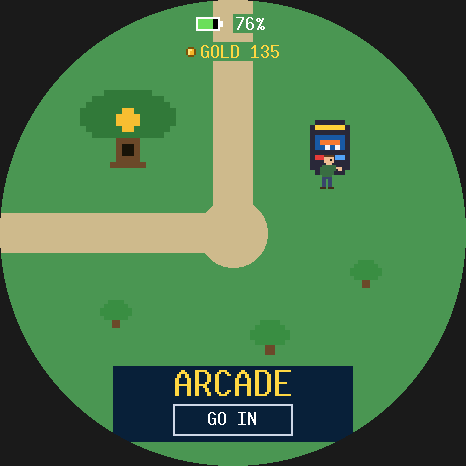
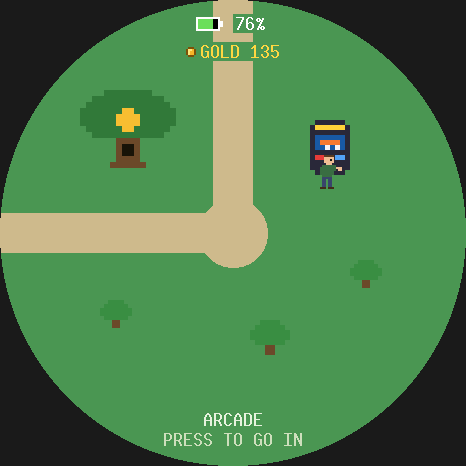
town: no GO IN sign. At a door the bottom plate names the place and says PRESS TO GO IN (PRESS TO OPEN at the signpost); walking in from a landmark tap keeps the clearing's plate, so nothing flashes for a frame; a tap where GO IN was walks down the south path. Town screenshots and the overview slide

Changed region(s): [[0.2403, 0.7811, 0.7811, 0.9614]]

diff --git a/crates/pals_game/src/town/draw.rs b/crates/pals_game/src/town/draw.rs
@@ -1,5 +1,5 @@
-//! Draws the town: the clearing you're in, you, the purse and door sign, and
-//! the settings screens.
+//! Draws the town: the clearing you're in, you, the purse and the plate that
+//! names where you are, and the settings screens.
 
 use alloc::{format, vec::Vec};
 
@@ -8,7 +8,7 @@ use bevy::prelude::*;
 use orbit_core::{Frame, Power, SoundQueue, Tilt};
 use orbit_gfx::{Point, Rgb565, Shape, SpriteRef};
 use orbit_ui::{
-    DANGER, DEEP, GOLD, HINT, TEXT, battery_level, battery_level_on, button, dial_choice, disc,
+    DANGER, DEEP, GOLD, HINT, TEXT, battery_level, battery_level_on, dial_choice, disc,
     framed_button, gold_label_on, label, labelled_button, plated_lines, power_overlay, rect, rgb,
 };
 use pals::Pals;
@@ -18,6 +18,7 @@ use super::{
     map::{LAKE, Screen, Way, props},
     ui,
 };
+use crate::Place;
 
 pub const GRASS: Rgb565 = rgb(78, 150, 84);
 const PATH: Rgb565 = rgb(206, 186, 136);
@@ -25,9 +26,6 @@ const WATER: Rgb565 = rgb(48, 110, 180);
 const SHORE: Rgb565 = rgb(196, 180, 120);
 const PATH_WIDTH: u32 = 40;
 const AVATAR_SCALE: u32 = 2;
-/// A door's sign is this much wider than its name, if that's wider than
-/// `ui::SIGN`.
-const SIGN_PAD: u32 = 28;
 
 pub(crate) fn draw_frame(
     town: Res<Town>,
@@ -115,7 +113,9 @@ fn avatar(shapes: &mut Vec<Shape>, town: &Town) {
     });
 }
 
-/// The purse on top, and at a door, its name and how to go in.
+/// The purse on top, and a plate naming the clearing, or at a door the
+/// place and how to go in. Walking in from a landmark keeps the clearing's
+/// plate, so it doesn't flash on the way in.
 fn hud(shapes: &mut Vec<Shape>, town: &Town, pals: &Pals) {
     gold_label_on(
         shapes,
@@ -124,25 +124,16 @@ fn hud(shapes: &mut Vec<Shape>, town: &Town, pals: &Pals) {
         1,
         GRASS,
     );
-    match town.near() {
-        Some(place) => {
-            let name = label(384, place.name(), 2, GOLD);
-            let wide = orbit_gfx::ink(&name).map_or(0, |ink| ink.size.width + SIGN_PAD);
-            let sign = ui::SIGN.area;
-            let width = wide.max(sign.size.width);
-            let left = 233 - width as i32 / 2;
-            shapes.push(rect(left, sign.top_left.y, width, sign.size.height, DEEP));
-            shapes.push(name);
-            button(shapes, &ui::ENTER);
-        }
-        None => {
-            let lines = [
-                label(420, town.screen().name(), 1, rgb(230, 240, 220)),
-                label(440, "TAP WHERE TO GO", 1, rgb(200, 220, 190)),
-            ];
-            plated_lines(shapes, lines, GRASS);
-        }
-    }
+    let (title, hint) = match town.near().filter(|_| town.heading_in.is_none()) {
+        Some(Place::Settings) => (Place::Settings.name(), "PRESS TO OPEN"),
+        Some(place) => (place.name(), "PRESS TO GO IN"),
+        None => (town.screen().name(), "TAP WHERE TO GO"),
+    };
+    let lines = [
+        label(420, title, 1, rgb(230, 240, 220)),
+        label(440, hint, 1, rgb(200, 220, 190)),
+    ];
+    plated_lines(shapes, lines, GRASS);
 }
 
 fn settings(shapes: &mut Vec<Shape>, pals: &Pals, sound: &SoundQueue, pointed: usize) {

diff --git a/crates/pals_game/tests/town.rs b/crates/pals_game/tests/town.rs
@@ -186,6 +186,48 @@ fn every_place_is_one_tap_on_its_landmark_away() {
 }
 
 #[test]
+fn at_a_door_the_plate_names_it_and_there_is_no_go_in_button() {
+    for place in Place::ALL {
+        let mut app = town(None);
+        app.world_mut().resource_mut::<Town>().stand_at(place);
+        update(&mut app);
+        assert!(!shows(&app, "GO IN"), "{place:?}");
+        assert!(shows(&app, place.name()), "{place:?}");
+        let hint = if place == Place::Settings {
+            "PRESS TO OPEN"
+        } else {
+            "PRESS TO GO IN"
+        };
+        assert!(shows(&app, hint), "{place:?}");
+    }
+}
+
+#[test]
+fn where_go_in_was_is_just_the_path_south_now() {
+    let mut app = town(None);
+    assert_eq!(state(&app).near(), Some(Place::Home));
+    tap_and_walk(&mut app, Vec2::new(233.0, 420.0), 60 * 4);
+    assert_eq!(state(&app).destination(), None);
+    assert_eq!(state(&app).screen(), Screen::MainStreet);
+}
+
+#[test]
+fn walking_in_from_a_landmark_keeps_the_usual_plate() {
+    let mut app = town(None);
+    tap_and_walk(&mut app, Vec2::new(330.0, 300.0), 120);
+    tap(&mut app, Vec2::new(233.0, 100.0));
+    for _ in 0..180 {
+        if state(&app).destination().is_some() {
+            break;
+        }
+        assert!(!shows(&app, "PRESS TO GO IN"), "the door plate flashed");
+        update(&mut app);
+    }
+    assert_eq!(state(&app).destination(), Some(Place::Home));
+    assert!(!shows(&app, "PRESS TO GO IN"), "the door plate flashed");
+}
+
+#[test]
 fn standing_near_a_door_is_enough_to_go_in() {
     let mut app = town(None);
     let door = state(&app).at();

diff --git a/crates/pals_game/src/town/mod.rs b/crates/pals_game/src/town/mod.rs
@@ -1,8 +1,8 @@
 //! The town, where the board starts: six clearings you walk around by touch.
 //! Tap where to go, or hold a finger down and follow it; tap the end of a path
 //! to go down it. Tap a place's landmark (its building, sign, or the pond's
-//! water and dock) and you walk to its door and go in. PWR (or GO IN) at a
-//! door goes in too. Going in ends the town app, and the platform builds that
+//! water and dock) and you walk to its door and go in. PWR at a door goes in
+//! too. Going in ends the town app, and the platform builds that
 //! place's app. The signpost by the house opens settings instead:
 //! sound, mock walks and reset, picked by turning like every menu.
 
@@ -278,10 +278,8 @@ fn roam(
                     town.finger_spent = true;
                 }
             }
-            let near = town.near();
-            let on_sign = tap.is_some_and(|at| ui::SIGN.miss(at) == 0.0);
-            let going_in = |place: &Place| pressed || on_sign || town.heading_in == Some(*place);
-            if let Some(place) = near.filter(going_in) {
+            let going_in = |place: &Place| pressed || town.heading_in == Some(*place);
+            if let Some(place) = town.near().filter(going_in) {
                 sound.play(&CLICK);
                 if place == Place::Settings {
                     town.phase = TownPhase::Settings;

diff --git a/crates/pals_game/src/town/ui.rs b/crates/pals_game/src/town/ui.rs
@@ -2,10 +2,6 @@
 
 pub use orbit_ui::Button;
 
-/// At a door, below its name.
-pub const ENTER: Button = Button::new(173, 404, 120, 32, "GO IN");
-/// The sign at a door, GO IN and all: a tap anywhere on it goes in.
-pub const SIGN: Button = Button::new(113, 366, 240, 76, "");
 /// Settings, clockwise from 12 o'clock as on its dial.
 pub const SOUND: Button = Button::new(148, 88, 170, 44, "SOUND");
 pub const MOCK_WALK: Button = Button::new(286, 211, 160, 44, "MOCK WALK");

diff --git a/devlog/beats.md b/devlog/beats.md
@@ -928,3 +928,18 @@ Images are in `img/`. Newest beats go at the bottom.
   unchanged.
 - **The numbers:** 3 new tests; spider's 60 s random-play crowding run covers the 7-spot dial.
 - **Media:** `img/50-before-spider-bet.png`, `img/50-after-spider-bet.png`.
+
+## 51. GO IN, gone (2026-10-10)
+
+- **The ask:** "remove the go in button on the overworld can be completely removed now, it only
+  appears for a frame and seems buggy"
+- **What got in the way:** beat 49 made a landmark tap walk you to the door and straight in. The
+  door's big sign with its GO IN button popped up on the frame you arrived and vanished the
+  next, which read as a glitch.
+- **The fix:** the sign and its button are gone, along with the tap target behind them. At a
+  door, the small plate that already names the clearing names the place instead and says PRESS
+  TO GO IN (PRESS TO OPEN at the signpost). Walking in from a landmark keeps the clearing's
+  plate, so nothing flashes. A tap where GO IN used to be now just walks down the south path.
+- **The numbers:** 3 new town tests, including one that watches every frame of a walk-in for
+  the door plate.
+- **Media:** `img/51-before-town-door.png`, `img/51-after-town-door.png`.

diff --git a/docs/ESP32_PLATFORM.md b/docs/ESP32_PLATFORM.md
@@ -1025,8 +1025,6 @@ pet*`.
   - With more than one button, `tapped(at, buttons)` picks the one the tap lands on, else the
     nearest within reach, so a padded neighbor can't steal it. RENAME, TRICKS and BACK on a
     fish's card are 2 px apart.
-  - At a door the whole sign is the GO IN target, and a tap below it still walks down the
-    path.
 - **Dial spots** are picked with `nearest(at, spots, reach)`:
 
   | Spots | Reach |
@@ -1065,7 +1063,9 @@ pet*`.
     out.
 - **Edges:** solid scenery slides you along it. The rim keeps you in, except down a path to
   the next clearing.
-- **Doors:** within 40 px of a door its name shows; PWR or GO IN enters.
+- **Doors:** within 40 px of a door, the plate at the bottom names the place and says PRESS
+  TO GO IN (PRESS TO OPEN at the signpost), and PWR enters. Walking in from a landmark tap
+  keeps the clearing's plate, so nothing flashes on the way in.
 - **Landmarks:** a tap on a place's landmark (`town::map::landmark`: the house, signpost,
   bench, hall, shop, den, bee tree or cabinet, and the pond's water and dock), give or take
   `TAP_SLOP`, walks you to its door and goes in. A tap at the end of a path still means the
